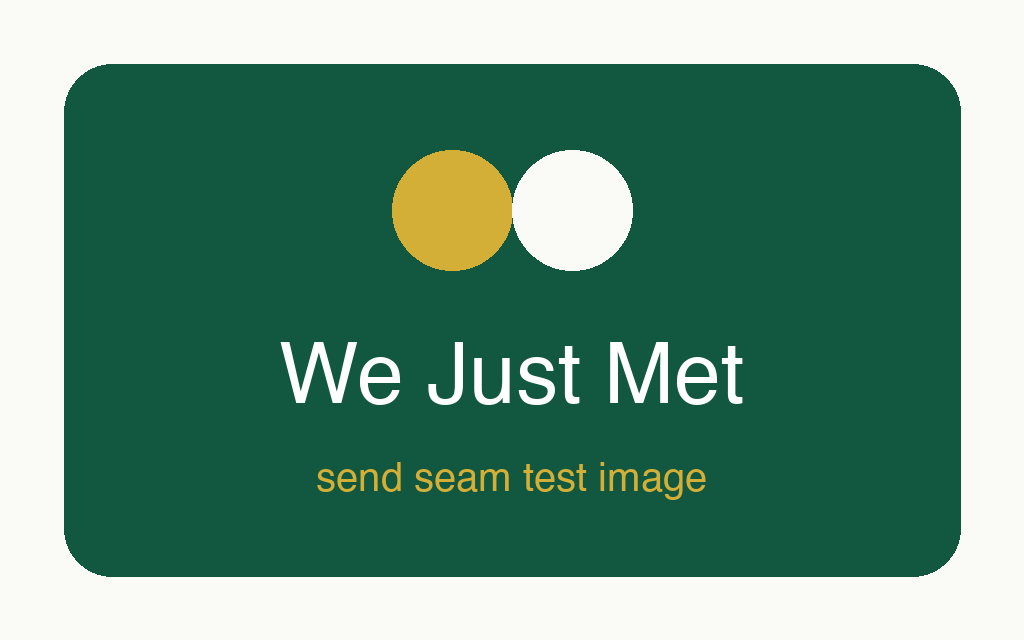
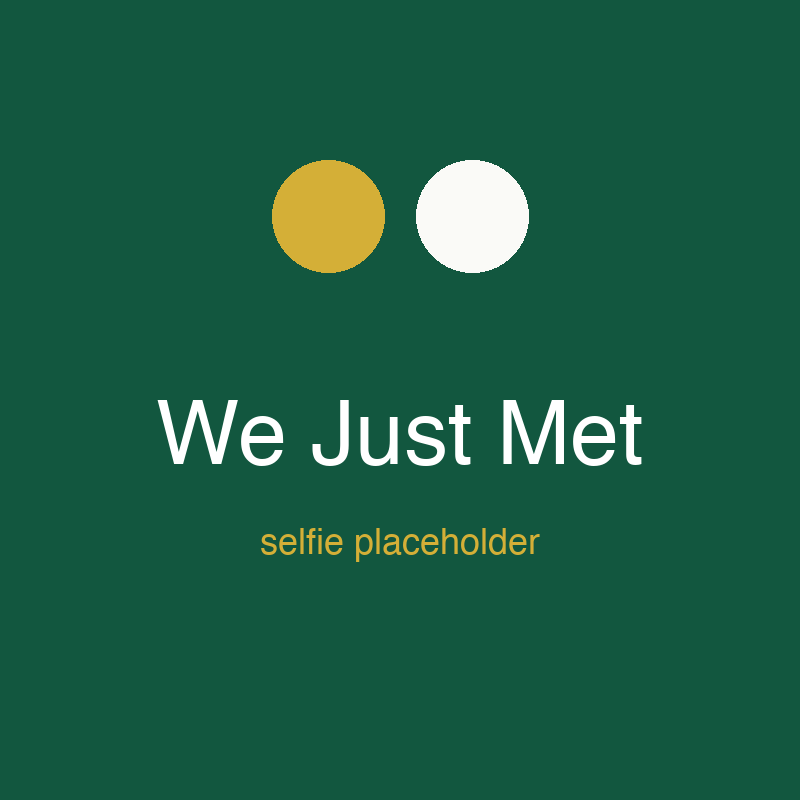
Selfie placeholder: full-bleed square image so circular crops stop clipping to an octagon

diff --git a/docs/UI.md b/docs/UI.md
@@ -1,0 +1,218 @@
+# We Just Met, UI and Design Document
+
+Product name: **We Just Met**. Android launcher label: **Just Met** (`strings.xml` `app_name`).
+Sources of truth: `PLAN.md` (Design language + Screens), `design/orb-preview.html` (approved orb spec),
+`design/flow-diagram.html` (flow + palette). Shipped code lives under `app/src/main/java/app/wejustmet/`.
+Where shipped code differs from the spec, the shipped truth is documented and the delta is flagged as
+**spec vs shipped**.
+
+## 1. Design principles
+
+- **Light theme only.** No dark mode, no theme settings. Rivora Labz palette ported from Snook-A-Look
+  `SnookColors.light()`: forest green on cream, gold as a scarce accent.
+- **One primary CTA per screen.** A single full-width green gradient button carries each screen's action.
+- **Press feedback everywhere.** Every tappable primary control scales to 0.952 with a spring release.
+  Nothing feels dead on the cream background, including disabled states (outlined, never greyed-to-invisible).
+- **Demo-first.** The payoff renders on our screen: the orb, the countdown, the success moment, and the
+  live judge-facing dashboard are all designed to be watched, not just used.
+- **Tokens defined once.** All values live in `ui/Theme.kt` (`Tokens`) and `core/AppConfig.kt`; never inline.
+
+## 2. Token reference (shipped in `ui/Theme.kt`, verified against PLAN.md)
+
+| Token | Value | Usage |
+|---|---|---|
+| BgPrimary | #FAFAF7 | cream app background, countdown scrim base |
+| SurfaceCard | #FFFFFF | cards, disabled CTA fill |
+| SurfaceElevated | #F7F7F4 | sheets |
+| SurfaceInput | #F4F4F0 | unfocused text field container |
+| BrandGreen | #0B3D2E | orb gradient outer, gradient bottom, headings, icons |
+| BrandPrimary | #12573F | brand mid tone, halos, focused field border, avatars |
+| BrandPrimaryHover | #166B4E | gradient tops (button + orb highlight) |
+| BrandGreenHover | #145A44 | pressed variant (defined, currently unreferenced in app code) |
+| AccentGold | #D4AF37 | gold hearing ring, success checkmark |
+| AccentGoldText | #8A6A00 | gold as text (4.85:1 on cream): "hearing you", enriched badge |
+| TextPrimary | #0A0A0A | headings, field values |
+| TextSecondary | 75% black (0xBF000000) | body copy, card sublines |
+| TextMuted | 60% black (0x99000000) | hints, transcripts, timestamps, disabled CTA label |
+| BorderControl | #8F8F8F | 1dp disabled CTA outline, unfocused input borders |
+| StatusSuccess | #27AE60 | success status |
+| StatusError | #C0392B | Material error slot |
+
+No discrepancies: every PLAN.md token shipped with the exact hex. Note: PLAN lists
+`surfaceElevated / surfaceInput` on one row; shipped code splits them into two tokens with the same values.
+
+## 3. Typography and spacing
+
+No custom Material `Typography` object shipped; the app sets sizes per text, forming this de facto scale:
+
+| Role | Size / weight | Where |
+|---|---|---|
+| Countdown digits | 110sp ExtraBold | 3-2-1-GO overlay |
+| Success headline | 24sp Bold | rotating quote |
+| Screen titles | 22sp Bold (drawer/People title: ExtraBold) | Capture prompt, Review, drawer header |
+| CTA label | 16sp SemiBold | PrimaryGreenButton |
+| Body | 15sp | prompt line, transcript, drawer items, sublines |
+| Card subline | 13sp | contact role/company |
+| Caption / badges | 12-13sp | hints, "met 2h ago", enriched badge |
+
+Spacing rhythm is 4/8dp multiples: 8, 12, 16, 24, 32, 36dp paddings throughout. Screen gutters 24dp
+(Capture uses 36dp horizontal to match the HTML preview). Cards: white, **24dp corner radius**, soft shadow
+(`shadowElevation = 2.dp`), no hard borders. Buttons: **12dp corner radius**.
+
+## 4. Components
+
+### Primary button (`ui/PrimaryGreenButton.kt`, constants in `ButtonSpec`)
+- 52dp tall, fills width, 12dp rounded rect.
+- Fill: vertical gradient BrandPrimaryHover -> BrandPrimary -> BrandGreen. Label white 16sp SemiBold.
+- Press: `graphicsLayer` scale to **0.952** (GPU only, no layout invalidation), spring release
+  (DampingRatioMediumBouncy, StiffnessMediumLow).
+- Fire: **220ms delay** before `onClick` plus a `firing` double-fire guard.
+- Loading: 24dp white `CircularProgressIndicator` (2dp stroke) replaces the label; gradient stays.
+- Disabled: flat SurfaceCard fill + **1dp BorderControl (#8F8F8F) outline**, label in TextMuted. Never looks
+  dead on cream.
+
+### Secondary button
+Spec (PLAN + orb-preview.html): white fill, 1dp BorderControl, BrandPrimary text, same shape + pressScale.
+**Spec vs shipped:** no dedicated Secondary composable exists yet; no screen currently needs one
+(secondary actions ship as text/icon affordances: retake hint, drawer items, back arrow).
+
+### Chips and badges
+- Enriched badge (app, `PeopleScreen`): AccentGoldText 12sp SemiBold text "enriched" on the contact card.
+- Dashboard chips (web `theme.css` classes): `chip-pending` ("enriching..."), `chip-done` ("enriched"),
+  `chip-failed`, plus the gold follow-up countdown chip ("nudge in 47h", "nudge due").
+
+### Cards
+White SurfaceCard, RoundedCornerShape(24dp), shadowElevation 2dp, 16-24dp inner padding. Contact card row:
+48dp circular avatar (BrandPrimary with white initial), name 16sp SemiBold, subline 13sp TextSecondary,
+"met Xm/h/d ago" 12sp TextMuted, gold badge trailing.
+
+### Text fields
+Material3 `OutlinedTextField` everywhere (Review, Onboarding): unfocused = SurfaceInput container +
+BorderControl border; focused = SurfaceCard container + BrandPrimary border and label. Single-line for
+fields, multiline for the message body.
+
+## 5. The Orb (crown jewel, `CaptureScreen.kt` `OrbSpec`, locked to `design/orb-preview.html`)
+
+Stage: 260dp box, orb centered.
+
+**Body:** 150dp circle. Radial gradient centered at **32% x / 28% y** offset:
+BrandPrimaryHover (0) -> BrandPrimary (**45%**) -> BrandGreen (100%), radius = orb width.
+**Spec vs shipped:** the HTML's drop shadow (brand green 35%) and inner bottom shade
+(`inset 0 -8px 22px` black 25%) did not ship; the Compose orb is flat gradient only.
+
+**Idle listening:** breathe scale 1.0 -> **1.06**, full cycle **2.6s** (tween of 1300ms each way,
+RepeatMode.Reverse). Two expanding halo rings: 150dp start, **2dp stroke BrandPrimary**, alpha starts at
+0.7 (spec says visible ring at 35% alpha color; shipped draws full BrandPrimary stroke and animates layer
+alpha 0.7 -> 0), scaling **1.0 -> 1.75** over 2.6s while fading to 0, second halo offset by **1.3s**
+(`StartOffset(1300)`). Easing: shipped LinearOutSlowInEasing vs HTML `ease-out`; visually equivalent.
+
+**Actively hearing speech:** driven by a 250ms tick; "hearing" is true while the last partial arrived
+within 900ms.
+- **178dp gold ring, 3dp AccentGold stroke**, plus a soft glow drawn as an 8dp stroke at 30% alpha,
+  5dp outside the ring.
+- Orb breathe speeds up to a **1.1s** cycle.
+- Caption "HEARING YOU" in AccentGoldText 13sp SemiBold replaces the bottom hint.
+- **Spec vs shipped:** the HTML's 250ms fade/scale-in entrance and 1.1s gold glow pulse
+  (`goldpulse`: shadow 18px<->34px, scale 1<->1.045) did not ship; the ring appears/disappears
+  instantly on the hearing flag (state swap via `key(hearing)`, which also restarts the breathe phase).
+
+**Live transcript:** below the orb, last **18 words** (`AppConfig.TRANSCRIPT_TAIL_WORDS`), 15sp italic.
+**Spec vs shipped:** spec styles the tail bold TextSecondary on a dim italic base; shipped renders the whole
+tail uniformly in TextMuted italic (no bold emphasis span).
+
+**Countdown overlay** (tap orb or silence timeout; extraction fires in parallel the moment capture stops):
+- Full-screen scrim: **BgPrimary at 96% alpha** (cream, content ghosts through).
+- "Ready for selfie" 20sp Bold BrandPrimary; digits **3 -> 2 -> 1 -> GO** at **800ms beats**
+  (`COUNTDOWN_BEAT_MS`), 110sp ExtraBold **BrandGreen**; sub-line "extraction already running in the
+  background" 14sp TextMuted.
+- **Spec vs shipped:** HTML fades the overlay in over 300ms; shipped overlay appears instantly.
+
+## 6. Screen-by-screen
+
+**FLOW (founder change, shipped):** the Capture orb IS the home screen. Recent contacts moved behind a
+hamburger drawer, Review and Send merged into one screen. Navigation is a `sealed interface Screen` in
+`MainActivity.kt`; back always returns to Capture.
+
+### Capture-as-Home (`CaptureScreen.kt`)
+- Hamburger icon top-left (BrandGreen) opens a `ModalNavigationDrawer` (cream sheet): product name header,
+  items **"People you met"** (-> PeopleScreen) and **"Your details"** (-> OnboardingScreen).
+- Prompt: "Hi! I'm listening." + "Say your name, number, company and what we talked about."
+- Orb front and center; transcript tail below; bottom hint "tap the orb to stop" swaps to gold
+  "HEARING YOU" while speech lands. Mic permission requested here, not at app start.
+- Tap orb (or STT finish) -> extraction kicks off async -> countdown overlay -> Review with the draft
+  (6s extraction timeout falls back to a note-only draft).
+
+### People you met (`PeopleScreen.kt`, behind the drawer)
+- Back arrow + "People you met" title, live Convex-fed contact cards (avatar initial, name, role/company,
+  "met 2h ago", gold enriched badge). Empty state: "Meet someone. Hand them your phone."
+- **Spec vs shipped:** avatar is the name initial on BrandPrimary, not the selfie thumbnail (selfie thumbs
+  land on the web dashboard; app thumbnail pending).
+
+### Review, merged with Send (`ReviewScreen.kt`)
+- Circular 96dp selfie at top, tap to retake (returns to Capture). **Spec vs shipped:** selfie is currently
+  the bundled demo asset (`SendConfig.TEST_IMAGE_ASSET`); CameraX auto-capture is build-order step 6.
+  No shimmer while extraction is in flight; extraction is awaited (with timeout) before navigating here.
+- Editable fields: name, phone, company, role, note. The WhatsApp message bubble is an editable multiline
+  field that live-retemplates from field edits until the user touches the message itself
+  (`MessageTemplate.compose`).
+- Single CTA **"Send on WhatsApp"**, gated on name + phone (`draft.readyToCompose`), loading spinner while
+  sending. Fires the jid intent, saves to Convex (selfie upload + mutation, enrichment auto-scheduled),
+  then Success.
+
+### Success moment (`SuccessScreen.kt`)
+- Full-screen cream; 120dp BrandPrimary circle spring-scales in (0.4 -> 1.0, MediumBouncy) with a gold
+  checkmark; headline from the rotating `SUCCESS_QUOTES` list (advances each send); sub-line
+  "Saved. Nudge in 48h."; auto-dismiss after **2.5s** or tap anywhere.
+- **Spec vs shipped:** PLAN called for a Lottie burst "on the dark surface"; shipped a spring checkmark
+  burst on cream (consistent with light-only theme, no Lottie dependency).
+
+### Your details / Onboarding (`OnboardingScreen.kt`, screen 0)
+- One white 24dp-radius card: "This is you." Fields: name, WhatsApp number, LinkedIn URL, Instagram URL,
+  about. Save CTA. Shown once on first run (SharedPreferences via `OwnerStore`, sync first read, no
+  start-screen flicker), reachable later from the drawer.
+- **Spec vs shipped:** DataStore replaced by SharedPreferences (noted in PLAN); optional photo and
+  "Enrich me" button not shipped; Instagram + about fields added beyond spec.
+
+### Web dashboard (`web/src/App.tsx` + `theme.css`)
+- Same cream + green palette. Header: title + subtitle, stat row (met today, enriched count).
+- Live contact cards via Convex subscription: selfie image (initial fallback), name, role/company filling
+  in live when enrichment lands, "met 2h ago", enrichment chip, gold follow-up countdown chip
+  ("nudge in 47h" / "nudge due"), re-enrich action. Empty state mirrors the app copy.
+
+## 7. Motion language
+
+- **Spring physics over linear.** Button press release and the success burst use
+  spring(MediumBouncy, MediumLow); tweens only for infinite loops (breathe, halos) and beat timers.
+- **Exit faster than enter.** Overlays and state exits are instant or near-instant; entrances get the
+  animation budget (halo expansion, spring scale-in).
+- **GPU-only transforms.** All motion goes through `graphicsLayer` scale/alpha; no layout invalidation,
+  no recomposition-driven animation.
+- **Every animation has meaning:** breathe = the app is listening; gold = it hears YOU right now;
+  faster breathe = urgency of live capture; expanding halos = open ears; countdown beats = selfie imminent;
+  spring burst = the contact is locked in.
+
+## 8. Accessibility
+
+- **Contrast baked into tokens:** gold as text is #8A6A00 (**4.85:1** on cream, vs raw #D4AF37 which
+  fails); TextMuted 60% black is **5.49:1** on cream; TextSecondary 75% black and TextPrimary comfortably
+  exceed WCAG AA. Disabled CTA keeps a 1dp #8F8F8F outline so state is visible without color reliance.
+- **Touch targets 44dp+:** 52dp CTA, 48dp Material icon buttons, 48dp list avatars, 150dp orb.
+- **STT safety net:** every extracted field on Review is a plain editable text field (phone at minimum is
+  a never-cut item), so recognition errors never block the flow.
+- Content descriptions on icon buttons and the selfie image via string resources.
+
+## Spec vs shipped summary
+
+| Area | Spec | Shipped |
+|---|---|---|
+| Orb shadow | drop shadow + inner bottom shade | flat gradient, no shadows |
+| Gold ring entrance | 250ms fade/scale-in + 1.1s glow pulse | instant show/hide, static double stroke |
+| Transcript emphasis | tail bold TextSecondary on dim italic | whole tail TextMuted italic |
+| Countdown overlay | 300ms fade-in | instant |
+| Secondary button | dedicated component | not yet needed, not built |
+| Review selfie | live CameraX countdown capture | bundled demo asset (step 6 pending) |
+| Review shimmer | shimmer while extraction in flight | extraction awaited pre-navigation instead |
+| Success | Lottie burst, dark surface | spring checkmark burst on cream |
+| People avatars | selfie thumbnails | name-initial circles |
+| Onboarding | DataStore, photo, "Enrich me" | SharedPreferences, +Instagram/about, no photo/enrich |
+| BrandGreenHover | pressed variant | token defined, unused |
